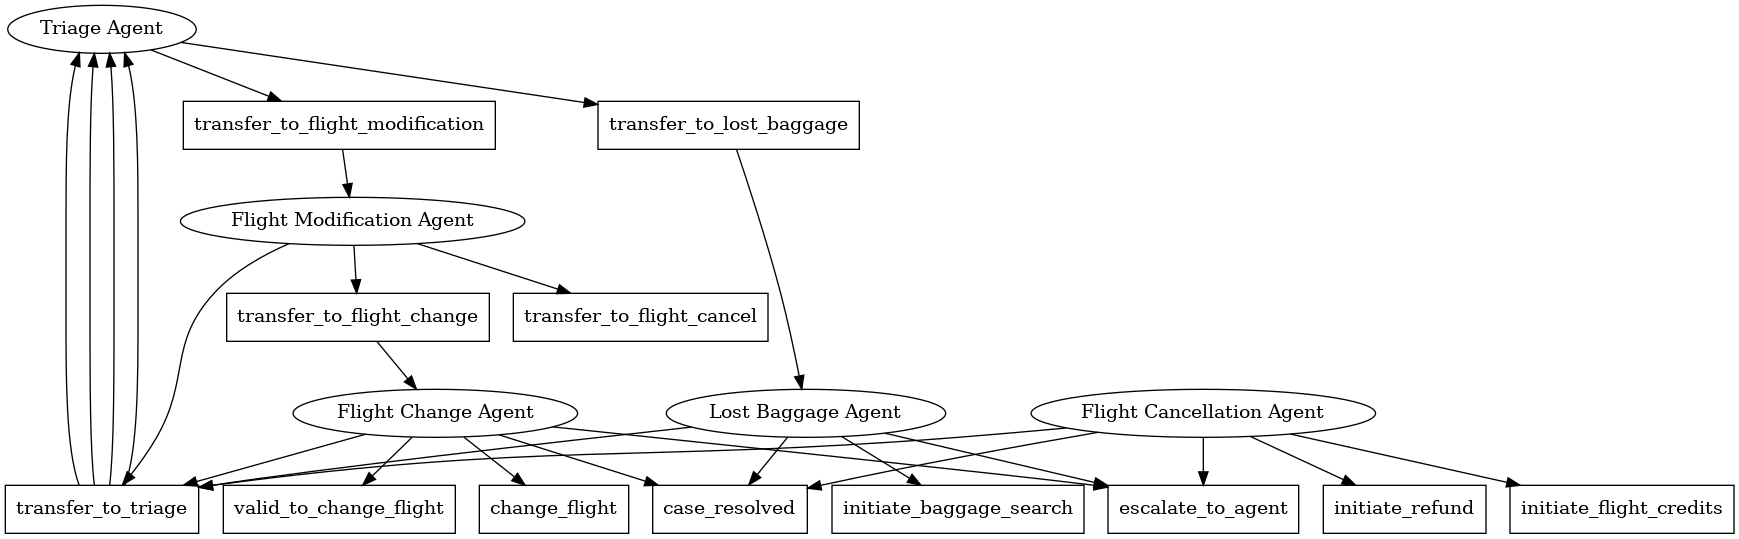
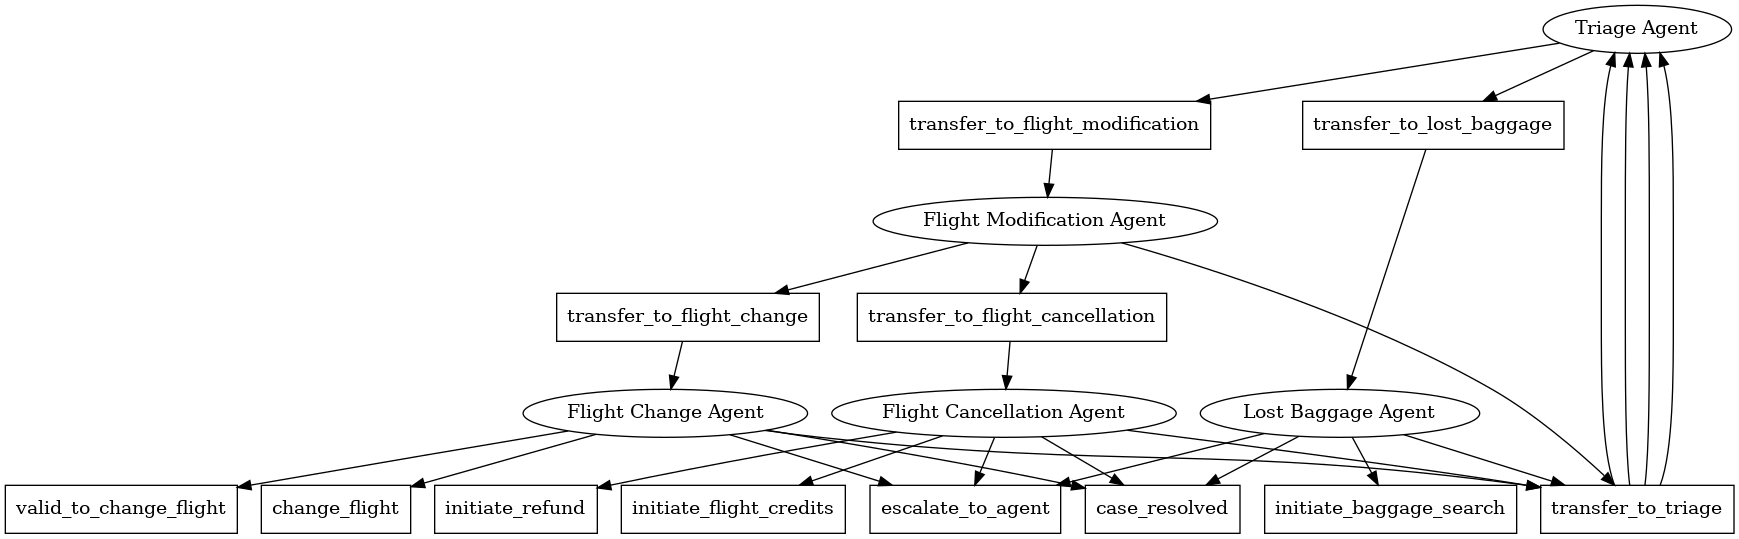
unused import

diff --git a/examples/airline/configs/agents.py b/examples/airline/configs/agents.py
@@ -10,8 +10,8 @@ def transfer_to_flight_modification():
     return flight_modification
 
 
-def transfer_to_flight_cancel():
-    return flight_cancel
+def transfer_to_flight_cancellation():
+    return flight_cancellation
 
 
 def transfer_to_flight_change():
@@ -52,11 +52,11 @@ flight_modification = Agent(
       You are an expert customer service agent deciding which sub intent the user should be referred to.
 You already know the intent is for flight modification related question. First, look at message history and see if you can determine if the user wants to cancel or change their flight.
 Ask user clarifying questions until you know whether or not it is a cancel request or change flight request. Once you know, call the appropriate transfer function. Either ask clarifying questions, or call one of your functions, every time.""",
-    functions=[transfer_to_flight_cancel, transfer_to_flight_change, transfer_to_triage],
+    functions=[transfer_to_flight_cancellation, transfer_to_flight_change, transfer_to_triage],
     parallel_tool_calls=False,
 )
 
-flight_cancel = Agent(
+flight_cancellation = Agent(
     name="Flight Cancellation Agent",
     instructions=STARTER_PROMPT + FLIGHT_CANCELLATION_POLICY,
     functions=[

diff --git a/examples/airline/visualize.py b/examples/airline/visualize.py
@@ -11,7 +11,7 @@ def visualize_agents():
     agent_names = [
         'triage_agent',
         'flight_modification',
-        'flight_cancel',
+        'flight_cancellation',
         'flight_change',
         'lost_baggage'
     ]
@@ -34,7 +34,7 @@ def visualize_agents():
 
             # Check if the function is a transfer function
             if function_name.startswith('transfer_to_'):
-                # Extract the target agent name from the function name
+                # Extract the target agent name from the transfer function name. This means they have to be the same!
                 target_agent_name = function_name.replace('transfer_to_', '').replace('_', ' ').title() + ' Agent'
                 if target_agent_name in agents:
                     dot.edge(function_name, target_agent_name)
